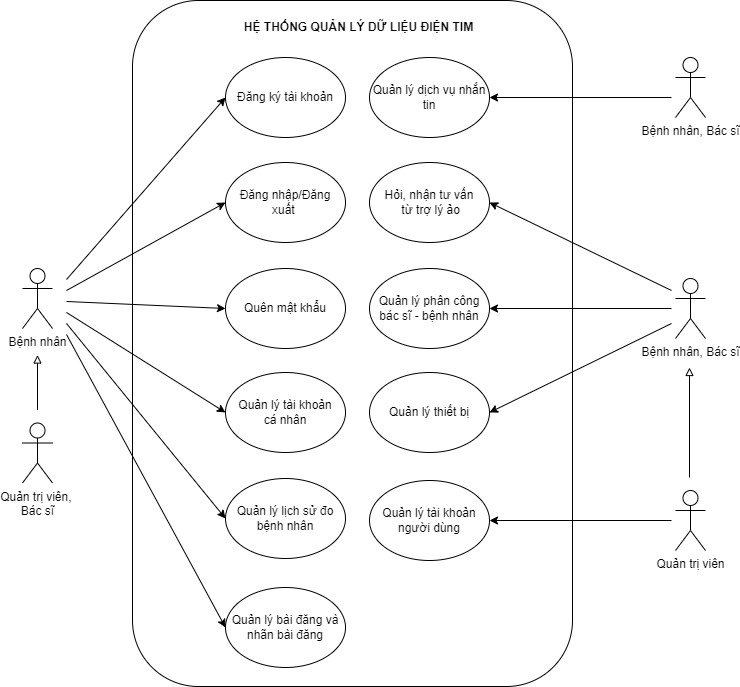
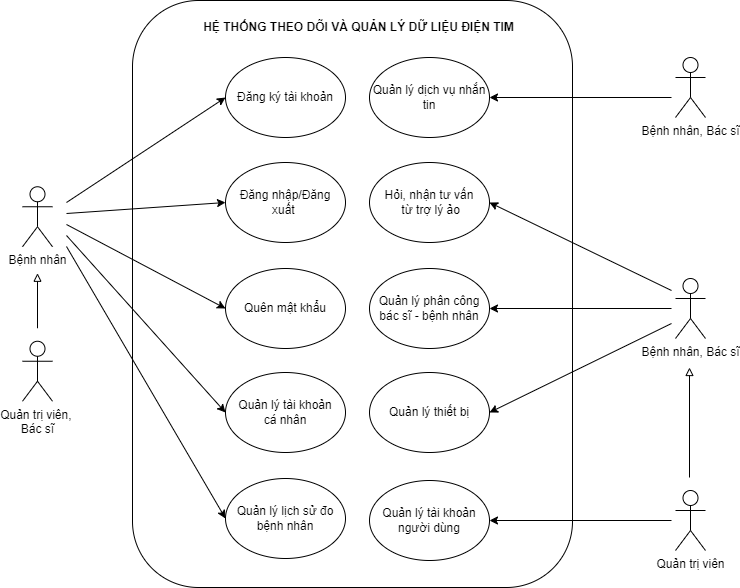
fix(thesis): delete news class

diff --git a/latex_thesis/Chapter/chapter1.tex b/latex_thesis/Chapter/chapter1.tex
@@ -39,7 +39,6 @@ Các chức năng chính của hệ thống bao gồm:
     \item Cập nhật các thông tin cá nhân
     \item Được theo dõi điện tim trực tiếp khi kết nối ứng dụng di động với thiết bị đo điện tim thông qua Bluetooth
     \item Xem kết quả ECG của mình, bao gồm biểu đồ và các thông số liên quan
-    \item Theo dõi các tin tức liên quan đến sức khoẻ và tim mạch
     \item Nhận thông báo và có thể trao đổi trực tiếp với bác sĩ về tình hình sức khoẻ và các kết quả đo được từ thiết bị
     \item Nhận tư vấn từ trợ lý ảo về hệ thống và các thông tin liên quan về sức khoẻ.
 \end{itemize}
@@ -64,7 +63,6 @@ Các chức năng chính của hệ thống bao gồm:
     \item Quản lý danh sách thiết bị, bản ghi của các dữ liệu
     \item Quản lý phân công bác sĩ - bệnh nhân
     \item Quản lý phê duyệt tài khoản khi người dùng đăng ký trên hệ thống
-    \item Quản lý các tin tức được đăng trên ứng dụng của người dùng
 \end{itemize}
 \end{adjustwidth}
 
@@ -367,241 +365,6 @@ Dựa vào những phân tích về yêu cầu chức năng, các use case trong
         - Người dùng chọn một phiên đo bất kì và chọn tải bản ghi dữ liệu
 
         - Hệ thống trả về tệp dữ liệu phiên đo, luồng sự kiện kết thúc        
-        \\
-      % \end{tabular} \\
-      \hline
-    \end{tabularx}
-  \end{table}
-
-\subsubsection{Use case chức năng quản lý bài đăng và nhãn bài đăng}
-  \begin{figure}[H]
-    \centering
-    \includegraphics[width=12cm,height=15cm]{Images/use_case/use_case_manage_news.png}
-    \caption[Sơ đồ use case chức năng quản lý bài đăng và nhãn bài đăng]{\bfseries \fontsize{12pt}{0pt}
-    \selectfont Sơ đồ use case chức năng quản lý bài đăng và nhãn bài đăng}
-    \label{use_case_news_management} %đặt tên cho ảnh
-  \end{figure}
-
-  \begin{table}[H]
-    \caption{\bfseries \fontsize{12pt}{0pt}\selectfont Bảng phân tích use case chức năng xem danh sách bài đăng}
-    \centering
-    \begin{tabularx}{0.9\textwidth}{|c|X|}
-      \hline
-      \textbf{Tên chức năng} & \textbf{Xem danh sách bài đăng} \\
-      \hline
-      Tác nhân & Người dùng \\
-      \hline
-      Mô tả & Cho phép người dùng thực hiện hành động xem danh sách bài đăng tin tức \\
-      \hline
-      Điều kiện trước & Người dùng cần có kết nối Internet và đã đăng nhập \\
-      \hline
-      Dòng sự kiện chính & 
-      % \begin{tabular}{@{}l@{}}
-        - Người dùng chọn xem danh sách bài đăng tin tức
-        
-        - Hệ thống hiển thị danh sách bài đăng
-
-        - Người dùng chọn một bài đăng
-
-        - Hệ thống hiển thị thông tin bài đăng, luồng sự kiện kết thúc         
-        \\
-      % \end{tabular} \\
-      \hline
-    \end{tabularx}
-  \end{table}
-
-  \begin{table}[H]
-    \caption{\bfseries \fontsize{12pt}{0pt}\selectfont Bảng phân tích use case chức năng đăng bài}
-    \centering
-    \begin{tabularx}{0.9\textwidth}{|c|X|}
-      \hline
-      \textbf{Tên chức năng} & \textbf{Đăng bài} \\
-      \hline
-      Tác nhân & Người dùng \\
-      \hline
-      Mô tả & Cho phép người dùng thực hiện hành động đăng bài tin tức \\
-      \hline
-      Điều kiện trước & Người dùng cần có kết nối Internet và đã đăng nhập \\
-      \hline
-      Dòng sự kiện chính & 
-      % \begin{tabular}{@{}l@{}}
-        - Người dùng chọn mục đăng bài
-
-        - Người dùng nhập thông tin bài đăng trên màn hình và nhấn xác nhận
-
-        - Hệ thống xác minh các thông tin, nếu thỏa mãn sẽ thông báo thành công và kết thúc luồng sự kiện, ngược lại 
-        sẽ thông báo lỗi         
-        \\
-      % \end{tabular} \\
-      \hline
-    \end{tabularx}
-  \end{table}
-
-  \begin{table}[H]
-    \caption{\bfseries \fontsize{12pt}{0pt}\selectfont Bảng phân tích use case chức năng chỉnh sửa bài đăng}
-    \centering
-    \begin{tabularx}{0.9\textwidth}{|c|X|}
-      \hline
-      \textbf{Tên chức năng} & \textbf{Chỉnh sửa bài đăng} \\
-      \hline
-      Tác nhân & Người dùng \\
-      \hline
-      Mô tả & Cho phép người dùng thực hiện hành động chỉnh sửa bài đăng \\
-      \hline
-      Điều kiện trước & Người dùng cần có kết nối Internet và đã đăng nhập \\
-      \hline
-      Dòng sự kiện chính & 
-      % \begin{tabular}{@{}l@{}}
-        - Người dùng chọn cập nhật thông tin bài đăng
-
-        - Hệ thống hiển thị thông tin bài đăng do người dùng đăng
-
-        - Người dùng nhập thông tin cập nhật trên màn hình và nhấn xác nhận
-
-        - Hệ thống xác minh các thông tin, nếu thỏa mãn sẽ thông báo thành công và kết thúc luồng sự kiện, ngược lại 
-        sẽ thông báo lỗi         
-        \\
-      % \end{tabular} \\
-      \hline
-    \end{tabularx}
-  \end{table}
-
-  \begin{table}[H]
-    \caption{\bfseries \fontsize{12pt}{0pt}\selectfont Bảng phân tích use case chức năng xóa bài đăng}
-    \centering
-    \begin{tabularx}{0.9\textwidth}{|c|X|}
-      \hline
-      \textbf{Tên chức năng} & \textbf{Xóa bài đăng} \\
-      \hline
-      Tác nhân & Người dùng \\
-      \hline
-      Mô tả & Cho phép người dùng thực hiện hành động xóa bài đăng \\
-      \hline
-      Điều kiện trước & Người dùng cần có kết nối Internet và đã đăng nhập \\
-      \hline
-      Dòng sự kiện chính & 
-      % \begin{tabular}{@{}l@{}}
-        - Người dùng chọn một hoặc nhiều bài đăng của bản thân và nhấn nút xóa
-
-        - Hệ thống hiển thị màn xác nhận xóa
-
-        - Người dùng chọn xác nhận xóa, hệ thống xóa thông tin và gửi thông báo kết quả. Ngược lại, quản trị viên 
-        chọn hủy bỏ, hệ thống sẽ quay về màn danh sách tài khoản người dùng. Luồng sự kiện kết thúc
-        \\
-      % \end{tabular} \\
-      \hline
-    \end{tabularx}
-  \end{table}
-
-  \begin{figure}[H]
-    \centering
-    \includegraphics[width=12cm,height=11cm]{Images/use_case/use_case_manage_news_category.png}
-    \caption[Sơ đồ use case chức năng quản lý nhãn bài đăng]{\bfseries \fontsize{12pt}{0pt}
-    \selectfont Sơ đồ use case chức năng quản lý nhãn bài đăng}
-    \label{use_case_news_category_management} %đặt tên cho ảnh
-  \end{figure}
-
-  \begin{table}[H]
-    \caption{\bfseries \fontsize{12pt}{0pt}\selectfont Bảng phân tích use case chức năng xem danh sách nhãn bài đăng}
-    \centering
-    \begin{tabularx}{0.9\textwidth}{|c|X|}
-      \hline
-      \textbf{Tên chức năng} & \textbf{Xem danh sách nhãn bài đăng} \\
-      \hline
-      Tác nhân & Quản trị viên \\
-      \hline
-      Mô tả & Cho phép quản trị viên thực hiện hành động xem danh sách bài đăng tin tức \\
-      \hline
-      Điều kiện trước & Người dùng cần có kết nối Internet và đã đăng nhập \\
-      \hline
-      Dòng sự kiện chính & 
-      % \begin{tabular}{@{}l@{}}
-        - Quản trị viên chọn xem danh sách nhãn bài đăng
-        
-        - Hệ thống hiển thị danh sách nhãn bài đăng, luồng sự kiện kết thúc
-        \\
-      % \end{tabular} \\
-      \hline
-    \end{tabularx}
-  \end{table}
-
-  \begin{table}[H]
-    \caption{\bfseries \fontsize{12pt}{0pt}\selectfont Bảng phân tích use case chức năng thêm nhãn bài đăng}
-    \centering
-    \begin{tabularx}{0.9\textwidth}{|c|X|}
-      \hline
-      \textbf{Tên chức năng} & \textbf{Thêm nhãn bài đăng} \\
-      \hline
-      Tác nhân & Quản trị viên \\
-      \hline
-      Mô tả & Cho phép quản trị viên thực hiện hành động thêm nhãn bài đăng \\
-      \hline
-      Điều kiện trước & Quản trị viên cần có kết nối Internet và đã đăng nhập \\
-      \hline
-      Dòng sự kiện chính & 
-      % \begin{tabular}{@{}l@{}}
-        - Người dùng chọn thêm nhãn bài đăng
-
-        - Người dùng nhập thông tin nhãn bài đăng trên màn hình và nhấn xác nhận
-
-        - Hệ thống xác minh các thông tin, nếu thỏa mãn sẽ thông báo thành công và kết thúc luồng sự kiện, ngược lại 
-        sẽ thông báo lỗi         
-        \\
-      % \end{tabular} \\
-      \hline
-    \end{tabularx}
-  \end{table}
-
-  \begin{table}[H]
-    \caption{\bfseries \fontsize{12pt}{0pt}\selectfont Bảng phân tích use case chức năng sửa nhãn bài đăng}
-    \centering
-    \begin{tabularx}{0.9\textwidth}{|c|X|}
-      \hline
-      \textbf{Tên chức năng} & \textbf{Sửa nhãn bài đăng} \\
-      \hline
-      Tác nhân & Quản trị viên \\
-      \hline
-      Mô tả & Cho phép quản trị viên thực hiện hành động sửa nhãn bài đăng \\
-      \hline
-      Điều kiện trước & Người dùng cần có kết nối Internet và đã đăng nhập \\
-      \hline
-      Dòng sự kiện chính & 
-      % \begin{tabular}{@{}l@{}}
-        - Quản trị viên chọn cập nhật thông tin nhãn bài đăng
-
-        - Hệ thống hiển thị thông tin nhãn bài đăng
-
-        - Quản trị viên nhập thông tin cập nhật trên màn hình và nhấn xác nhận
-
-        - Hệ thống xác minh các thông tin, nếu thỏa mãn sẽ thông báo thành công và kết thúc luồng sự kiện, ngược lại 
-        sẽ thông báo lỗi         
-        \\
-      % \end{tabular} \\
-      \hline
-    \end{tabularx}
-  \end{table}
-
-  \begin{table}[H]
-    \caption{\bfseries \fontsize{12pt}{0pt}\selectfont Bảng phân tích use case chức năng xóa nhãn bài đăng}
-    \centering
-    \begin{tabularx}{0.9\textwidth}{|c|X|}
-      \hline
-      \textbf{Tên chức năng} & \textbf{Xóa nhãn bài đăng} \\
-      \hline
-      Tác nhân & Quản trị viên \\
-      \hline
-      Mô tả & Cho phép quản trị viên thực hiện hành động xóa bài đăng \\
-      \hline
-      Điều kiện trước & Người dùng cần có kết nối Internet và đã đăng nhập \\
-      \hline
-      Dòng sự kiện chính & 
-      % \begin{tabular}{@{}l@{}}
-        - Quản trị viên chọn một hoặc nhiều nhãn bài đăng và nhấn nút xóa
-
-        - Hệ thống hiển thị màn xác nhận xóa
-
-        - Quản trị viên chọn xác nhận xóa, hệ thống xóa thông tin và gửi thông báo kết quả. Ngược lại, quản trị viên 
-        chọn hủy bỏ, hệ thống sẽ quay về màn danh sách nhãn bài đăng. Luồng sự kiện kết thúc
         \\
       % \end{tabular} \\
       \hline
